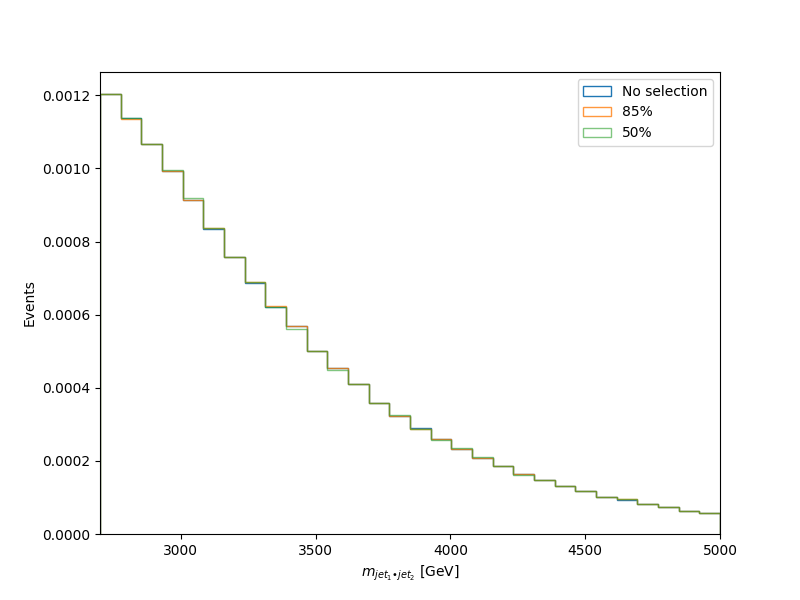
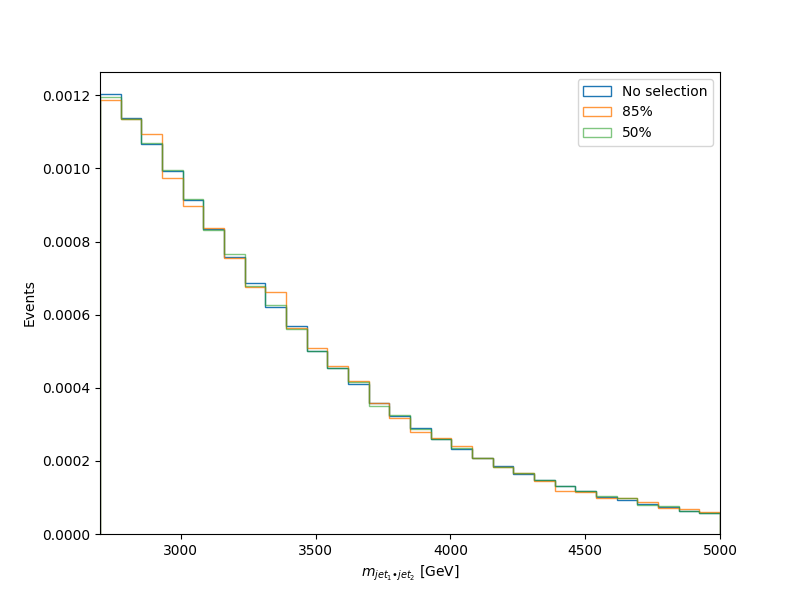
Testing with minmax scaling and 84, 14 layer dimensions

diff --git a/test.py b/test.py
@@ -206,8 +206,8 @@ selected_values = loss_bkg_all_total[cumulative_sum <= threshold]
 nbins = 30
 fig, axes = plt.subplots(figsize=(8,6))
 axes.hist([bkg.mj1j2], nbins, range=(2700, 5000), density=1, histtype='step', label=['No selection'], stacked=True, alpha=1)
-axes.hist([bkg.mj1j2[cumulative_sum <= 0.85 * total_sum]], nbins, range=(2700, 5000), density=1, histtype='step', label=['85%'], stacked=True, alpha=0.8)
-axes.hist([bkg.mj1j2[cumulative_sum <= 0.5 * total_sum]], nbins, range=(2700, 5000), density=1, histtype='step', label=['50%'], stacked=True, alpha=0.6)
+axes.hist([bkg.mj1j2[cumulative_sum >= 0.85 * total_sum]], nbins, range=(2700, 5000), density=1, histtype='step', label=['85%'], stacked=True, alpha=0.8)
+axes.hist([bkg.mj1j2[cumulative_sum >= 0.5 * total_sum]], nbins, range=(2700, 5000), density=1, histtype='step', label=['50%'], stacked=True, alpha=0.6)
 axes.set_xlabel(r"$m_{jet_1•jet_2}$ [GeV]")
 axes.set_ylabel("Events")
 axes.set_xlim(2700, 5000)
